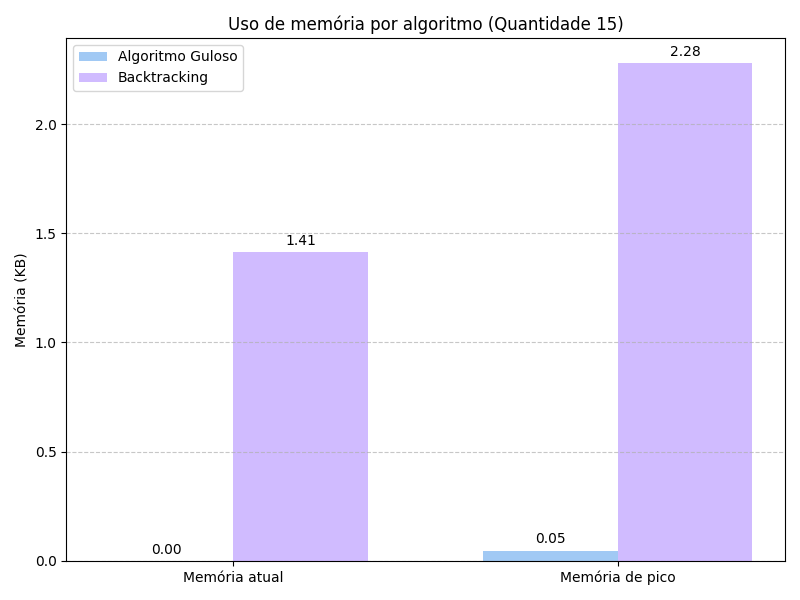
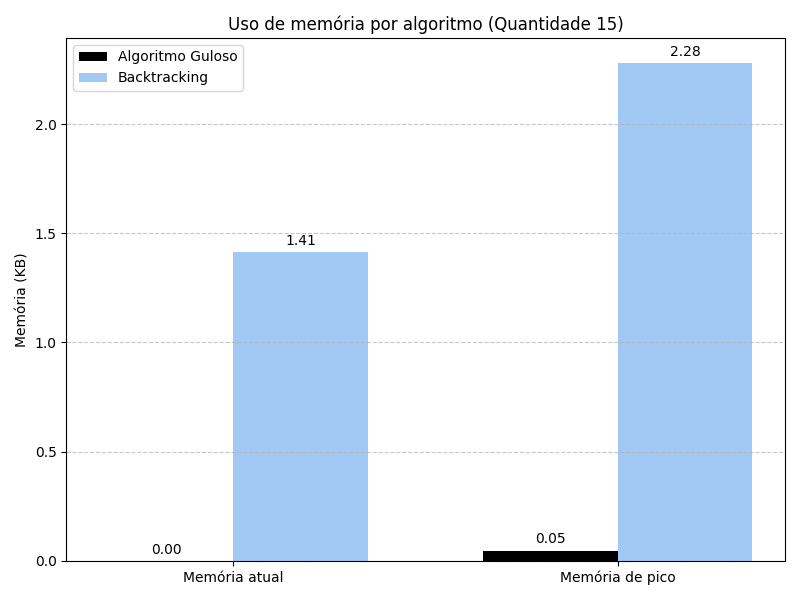
Atualiza a paleta de cores nos gráficos de comparação de tempo e uso de memória para melhor visualização

Changed region(s): [[0.5938, 0.09, 0.9375, 0.96], [0.2812, 0.42, 0.4688, 0.96], [0.0938, 0.09, 0.1562, 0.15]]

diff --git a/src/graficos.py b/src/graficos.py
@@ -65,8 +65,11 @@ def memoria_backtracking(lista_moedas, valor, total_moedas=0):
 
 def plotar_tempos(tempos, cenario):    
     plt.figure(figsize=(10,6))
+    
+    paleta = [sns.color_palette("pastel")[0], sns.color_palette("pastel")[4]]
+    
     plt.plot(tempos[0], label='Algoritmo Guloso', marker='o', linestyle='--', color='black')
-    plt.plot(tempos[1], label='Backtracking', marker='s', linestyle='--', color='green')
+    plt.plot(tempos[1], label='Backtracking', marker='s', linestyle='--', color=paleta[0])
     
     plt.title(f"Comparacao de tempo de execução para o {'primeiro' if cenario == 1 else 'segundo'} cenário")
     plt.xlabel('Número da execução', fontsize=12)
@@ -84,8 +87,8 @@ def plotar_memorias(memoriag, memoriab, total_moedas):
     
     paleta = [sns.color_palette("pastel")[0], sns.color_palette("pastel")[4]]
     
-    barra1 = ax.bar(x - largura/2, memoriag, largura, label='Algoritmo Guloso', color=paleta[0])
-    barra2 = ax.bar(x + largura/2, memoriab, largura, label='Backtracking', color=paleta[1])
+    barra1 = ax.bar(x - largura/2, memoriag, largura, label='Algoritmo Guloso', color='black')
+    barra2 = ax.bar(x + largura/2, memoriab, largura, label='Backtracking', color=paleta[0])
     
     ax.set_ylabel('Memória (KB)')
     ax.set_title(f'Uso de memória por algoritmo (Quantidade {total_moedas})')
